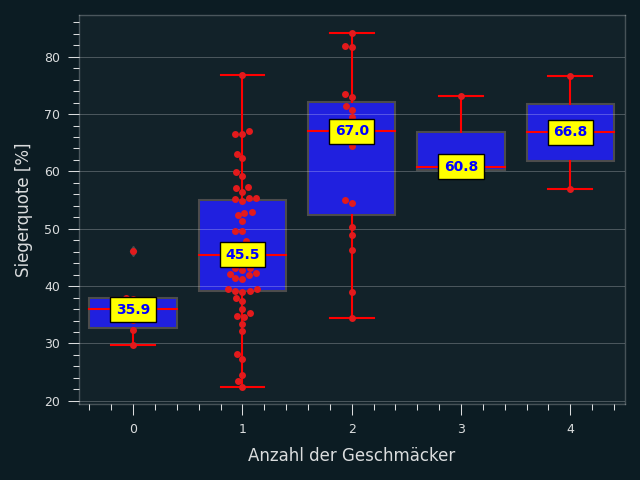
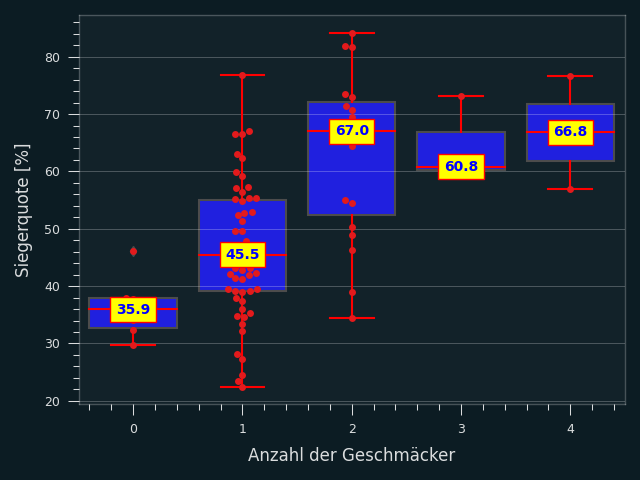
adding cooccurence_matrix

diff --git a/cooccurence_matrix.html b/cooccurence_matrix.html
@@ -1,0 +1,126 @@
+<table border="1" class="dataframe">
+  <thead>
+    <tr style="text-align: right;">
+      <th></th>
+      <th>chocolate</th>
+      <th>fruity</th>
+      <th>caramel</th>
+      <th>peanutyalmondy</th>
+      <th>nougat</th>
+      <th>crispedricewafer</th>
+      <th>hard</th>
+      <th>bar</th>
+      <th>pluribus</th>
+    </tr>
+  </thead>
+  <tbody>
+    <tr>
+      <th>chocolate</th>
+      <td>1.00</td>
+      <td>0.03</td>
+      <td>0.27</td>
+      <td>0.32</td>
+      <td>0.16</td>
+      <td>0.19</td>
+      <td>0.03</td>
+      <td>0.54</td>
+      <td>0.32</td>
+    </tr>
+    <tr>
+      <th>fruity</th>
+      <td>0.03</td>
+      <td>1.00</td>
+      <td>0.03</td>
+      <td>0.00</td>
+      <td>0.00</td>
+      <td>0.00</td>
+      <td>0.34</td>
+      <td>0.00</td>
+      <td>0.68</td>
+    </tr>
+    <tr>
+      <th>caramel</th>
+      <td>0.71</td>
+      <td>0.07</td>
+      <td>1.00</td>
+      <td>0.21</td>
+      <td>0.29</td>
+      <td>0.21</td>
+      <td>0.07</td>
+      <td>0.57</td>
+      <td>0.21</td>
+    </tr>
+    <tr>
+      <th>peanutyalmondy</th>
+      <td>0.86</td>
+      <td>0.00</td>
+      <td>0.21</td>
+      <td>1.00</td>
+      <td>0.21</td>
+      <td>0.07</td>
+      <td>0.00</td>
+      <td>0.50</td>
+      <td>0.29</td>
+    </tr>
+    <tr>
+      <th>nougat</th>
+      <td>0.86</td>
+      <td>0.00</td>
+      <td>0.57</td>
+      <td>0.43</td>
+      <td>1.00</td>
+      <td>0.00</td>
+      <td>0.00</td>
+      <td>1.00</td>
+      <td>0.00</td>
+    </tr>
+    <tr>
+      <th>crispedricewafer</th>
+      <td>1.00</td>
+      <td>0.00</td>
+      <td>0.43</td>
+      <td>0.14</td>
+      <td>0.00</td>
+      <td>1.00</td>
+      <td>0.00</td>
+      <td>0.86</td>
+      <td>0.14</td>
+    </tr>
+    <tr>
+      <th>hard</th>
+      <td>0.07</td>
+      <td>0.87</td>
+      <td>0.07</td>
+      <td>0.00</td>
+      <td>0.00</td>
+      <td>0.00</td>
+      <td>1.00</td>
+      <td>0.00</td>
+      <td>0.53</td>
+    </tr>
+    <tr>
+      <th>bar</th>
+      <td>0.95</td>
+      <td>0.00</td>
+      <td>0.38</td>
+      <td>0.33</td>
+      <td>0.33</td>
+      <td>0.29</td>
+      <td>0.00</td>
+      <td>1.00</td>
+      <td>0.00</td>
+    </tr>
+    <tr>
+      <th>pluribus</th>
+      <td>0.27</td>
+      <td>0.59</td>
+      <td>0.07</td>
+      <td>0.09</td>
+      <td>0.00</td>
+      <td>0.02</td>
+      <td>0.18</td>
+      <td>0.00</td>
+      <td>1.00</td>
+    </tr>
+  </tbody>
+</table>

diff --git a/least_popular_combinations.html b/least_popular_combinations.html
@@ -14,15 +14,26 @@
   </thead>
   <tbody>
     <tr>
-      <td>pluribus</td>
-      <td>44</td>
+      <td>hard</td>
+      <td>15</td>
       <td>1</td>
-      <td>46.8</td>
-      <td>1.2</td>
+      <td>40.5</td>
+      <td>1.5</td>
       <td>1.0</td>
-      <td>13.3</td>
-      <td>0.4</td>
+      <td>7.1</td>
       <td>0.5</td>
+      <td>0.4</td>
+    </tr>
+    <tr>
+      <td>hard+fruity</td>
+      <td>13</td>
+      <td>2</td>
+      <td>41.2</td>
+      <td>1.5</td>
+      <td>1.1</td>
+      <td>7.0</td>
+      <td>0.5</td>
+      <td>0.3</td>
     </tr>
     <tr>
       <td>fruity</td>
@@ -36,17 +47,6 @@
       <td>0.2</td>
     </tr>
     <tr>
-      <td>chocolate</td>
-      <td>37</td>
-      <td>1</td>
-      <td>60.9</td>
-      <td>1.1</td>
-      <td>1.8</td>
-      <td>12.8</td>
-      <td>0.5</td>
-      <td>0.8</td>
-    </tr>
-    <tr>
       <td>pluribus+fruity</td>
       <td>26</td>
       <td>2</td>
@@ -58,15 +58,15 @@
       <td>0.0</td>
     </tr>
     <tr>
-      <td>bar</td>
-      <td>21</td>
+      <td>pluribus</td>
+      <td>44</td>
       <td>1</td>
-      <td>61.3</td>
-      <td>1.3</td>
-      <td>2.0</td>
-      <td>11.1</td>
+      <td>46.8</td>
+      <td>1.2</td>
+      <td>1.0</td>
+      <td>13.3</td>
+      <td>0.4</td>
       <td>0.5</td>
-      <td>0.9</td>
     </tr>
   </tbody>
 </table>

diff --git a/most_popular_combinations.html b/most_popular_combinations.html
@@ -68,60 +68,5 @@
       <td>0.5</td>
       <td>0.9</td>
     </tr>
-    <tr>
-      <td>chocolate</td>
-      <td>37</td>
-      <td>1</td>
-      <td>60.9</td>
-      <td>1.1</td>
-      <td>1.8</td>
-      <td>12.8</td>
-      <td>0.5</td>
-      <td>0.8</td>
-    </tr>
-    <tr>
-      <td>caramel</td>
-      <td>14</td>
-      <td>1</td>
-      <td>57.3</td>
-      <td>1.1</td>
-      <td>2.3</td>
-      <td>16.2</td>
-      <td>0.6</td>
-      <td>1.0</td>
-    </tr>
-    <tr>
-      <td>pluribus+chocolate</td>
-      <td>12</td>
-      <td>2</td>
-      <td>56.9</td>
-      <td>1.1</td>
-      <td>1.4</td>
-      <td>13.0</td>
-      <td>0.3</td>
-      <td>0.5</td>
-    </tr>
-    <tr>
-      <td>pluribus</td>
-      <td>44</td>
-      <td>1</td>
-      <td>46.8</td>
-      <td>1.2</td>
-      <td>1.0</td>
-      <td>13.3</td>
-      <td>0.4</td>
-      <td>0.5</td>
-    </tr>
-    <tr>
-      <td>pluribus+fruity</td>
-      <td>26</td>
-      <td>2</td>
-      <td>45.4</td>
-      <td>1.3</td>
-      <td>1.0</td>
-      <td>11.2</td>
-      <td>0.5</td>
-      <td>0.0</td>
-    </tr>
   </tbody>
 </table>

diff --git a/winpct_per_feature.html b/winpct_per_feature.html
@@ -14,6 +14,17 @@
   </thead>
   <tbody>
     <tr>
+      <td>crispedricewafer</td>
+      <td>7</td>
+      <td>1</td>
+      <td>66.2</td>
+      <td>2.0</td>
+      <td>1.6</td>
+      <td>10.7</td>
+      <td>0.0</td>
+      <td>0.8</td>
+    </tr>
+    <tr>
       <td>peanutyalmondy</td>
       <td>14</td>
       <td>1</td>
@@ -45,6 +56,17 @@
       <td>12.8</td>
       <td>0.5</td>
       <td>0.8</td>
+    </tr>
+    <tr>
+      <td>nougat</td>
+      <td>7</td>
+      <td>1</td>
+      <td>60.1</td>
+      <td>1.0</td>
+      <td>2.9</td>
+      <td>13.8</td>
+      <td>0.0</td>
+      <td>0.9</td>
     </tr>
     <tr>
       <td>caramel</td>

diff --git a/most_popular_sweets.py b/most_popular_sweets.py
@@ -1,4 +1,5 @@
 import pandas as pd
+import numpy as np
 import seaborn as sns
 import matplotlib.pyplot as plt
 from sklearn.tree import DecisionTreeRegressor, plot_tree
@@ -65,7 +66,7 @@ def make_boxplot(x, y, out_name, x_label=None, x_tick_labels=None):
             fontweight="bold",
             size=10,
             color="blue",
-            bbox=dict(facecolor="yellow", alpha=1),
+            bbox=dict(edgecolor="red", facecolor="yellow", alpha=1),
         )
     if x_label:
         ax.set_xlabel(x_label)
@@ -139,22 +140,33 @@ def main():
     pd.set_option("display.max_columns", None)
     pd.set_option("display.precision", 1)
     contains_df = create_contains_df(candy_df, features + flavours)
-    contains_df = contains_df.sort_values(by=["n_samples"], ascending=False)
-    contains_df.head(10).to_html("most_common_combinations.html", index=False)
-    contains_df = contains_df[contains_df["n_samples"] >= 10].sort_values(
+    common_cdf = contains_df.sort_values(by=["n_samples"], ascending=False)
+    common_cdf.head(5).to_html("most_common_combinations.html", index=False)
+    pop_cdf = contains_df[contains_df["n_samples"] >= 10].sort_values(
         by=["mean_winpercent"], ascending=False
     )
-    contains_df.head(10).to_html("most_popular_combinations.html", index=False)
-    contains_df = contains_df[contains_df["n_feat"] == 1].sort_values(
+    pop_cdf.head(5).to_html("most_popular_combinations.html", index=False)
+    least_cdf = contains_df[contains_df["n_samples"] >= 10].sort_values(
+        by=["mean_winpercent"], ascending=True
+    )
+    least_cdf.head(5).to_html("least_popular_combinations.html", index=False)
+    feat_cdf = contains_df[contains_df["n_feat"] == 1].sort_values(
         by=["mean_winpercent"], ascending=False
     )
-    contains_df.head(10).to_html("winpct_per_feature.html", index=False)
-    candy_df = candy_df.sort_values(by=["winpercent"], ascending=False)
-    candy_df.head(5).to_html("most_popular_candybrands.html", index=False)
+    feat_cdf.head(10).to_html("winpct_per_feature.html", index=False)
+
+    brands_cdf = candy_df.sort_values(by=["winpercent"], ascending=False)
+    brands_cdf.head(5).to_html("most_popular_candybrands.html", index=False)
 
     # correlation plots
     feature_correlation(candy_df.drop(["competitorname"], axis=1))
     correlation_plot_winpercent(candy_df.drop(["competitorname"], axis=1))
+
+    # co-occurence
+    binary_feat_candy_df = candy_df[flavours + features]
+    coocc_mat = binary_feat_candy_df.T.dot(binary_feat_candy_df)
+    coocc_mat = coocc_mat.apply(lambda row: row/row[row.name], axis=1)
+    coocc_mat.to_html("cooccurence_matrix.html", float_format=lambda flt:f"{flt:.2f}")
 
     # histplot winpct dist
     ax = sns.histplot(candy_df["winpercent"], color="blue", edgecolor="red")
@@ -205,14 +217,15 @@ def main():
     )
     # boxplot cookie like candy
     make_boxplot(
-        ((candy_df["pluribus"] == 1) | (candy_df["crispedricewafer"] == 1)),
+        (candy_df["crispedricewafer"] == 1),
         candy_df["winpercent"],
         "cookie_like_winpercent_boxplot.png",
         x_tick_labels=["nicht keksähnlich", "keksähnlich"],
+        x_label=" ",
     )
     make_boxplot(
         (
-            ((candy_df["pluribus"] == 1) | (candy_df["crispedricewafer"] == 1))
+            (candy_df["crispedricewafer"] == 1)
             & (candy_df["chocolate"] == 1)
         ),
         candy_df["winpercent"],
@@ -242,12 +255,21 @@ def lin_reg():
     ]
     for met in metrics:
         print(f"{met.__name__}: {met(y_data, y_pred)}")
+    for var in x_data.columns:
+        if var=="sugarpercent" or var=="pricepercent": continue
+        tmp_x_data=x_data[x_data[var]==0]
+        tmp_y_data=y_data[tmp_x_data.index]
+        # print(var,len(tmp_x_data),len(tmp_y_data))
+        tmp_r2_score = linreg.score(tmp_x_data, tmp_y_data)
+        tmp_pred = y_pred[tmp_x_data.index]
+        tmp_mse = mean_squared_error(tmp_y_data, tmp_pred)
+        print(f"samples with {var}: n_samps = {len(tmp_y_data)} | R2 = {tmp_r2_score} | MSE = {tmp_mse}")
 
 
 def decision_tree():
     candy_df = pd.read_csv("candy-data.csv")
     model = DecisionTreeRegressor(max_depth=3)
-    x_data = candy_df.drop(["winpercent", "competitorname"], axis=1)
+    x_data = candy_df.drop(["winpercent", "competitorname", "sugarpercent", "pricepercent"], axis=1)
     y_data = candy_df["winpercent"]
     model.fit(x_data, y_data)
     y_pred = model.predict(x_data)
